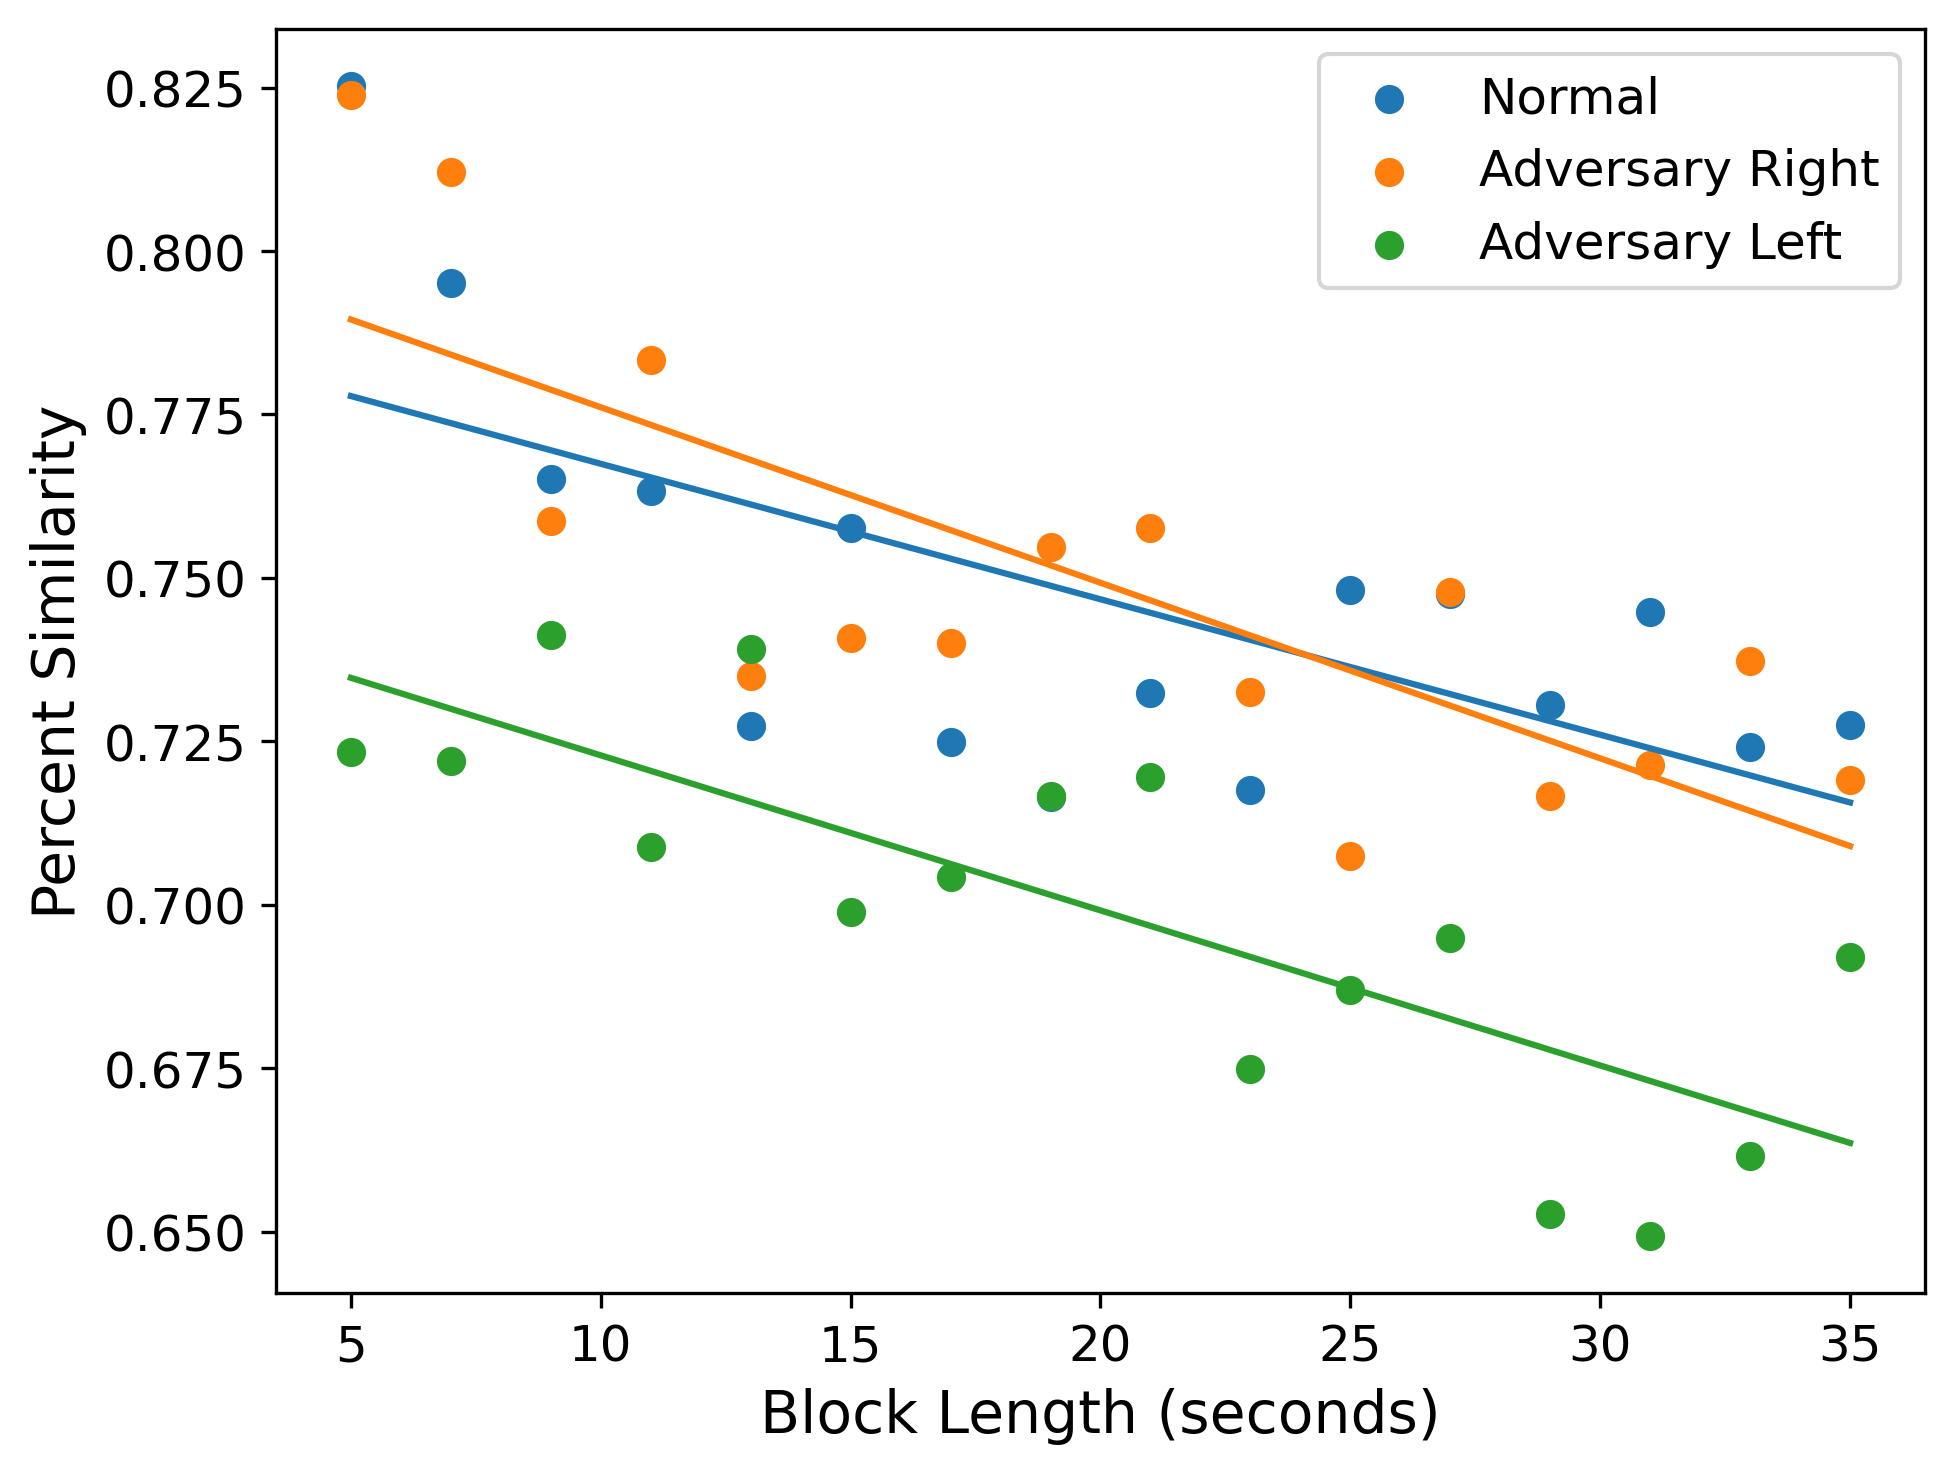
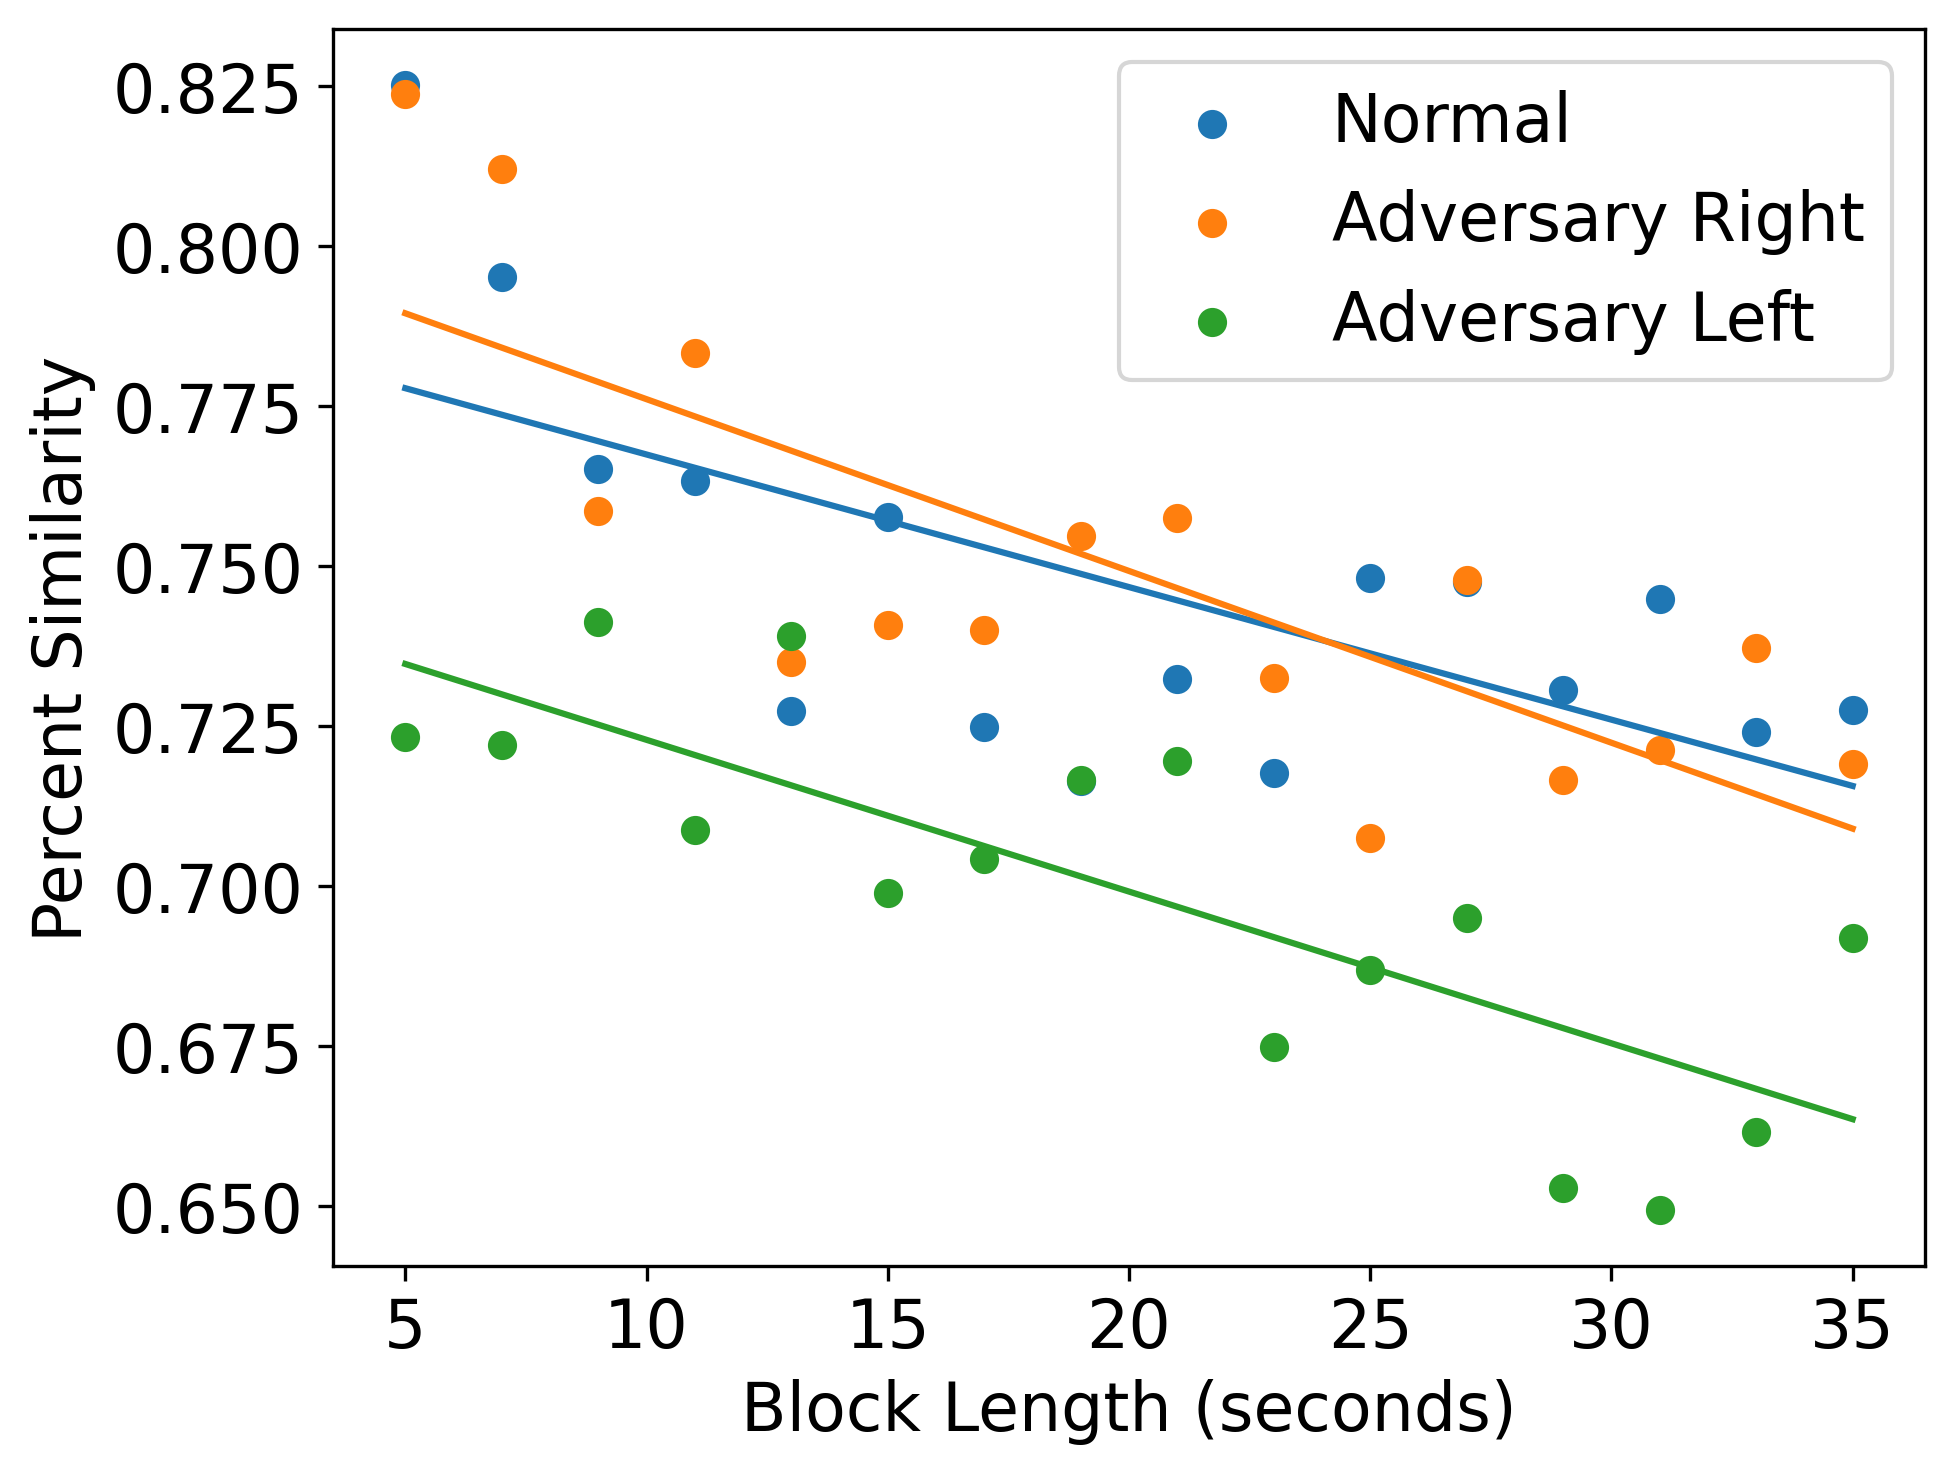
Made the text larger on the graphs we use

diff --git a/encode.py b/encode.py
@@ -56,7 +56,7 @@ def block_encoding(filename, start_time, block_size, num_blocks, time_gap=0, rev
     df = pd.read_csv(filename)
 
     blocks = ['' for _ in range(num_blocks)]
-    
+    """
     for _, entry in df.iterrows():
         t = entry.iloc[0]
         e = entry.iloc[1]
@@ -65,7 +65,7 @@ def block_encoding(filename, start_time, block_size, num_blocks, time_gap=0, rev
 
         if block >= 0 and block < num_blocks and (t - start_time - block*(block_size+time_gap)) <= block_size:
             blocks[block] += (encode_event(t, e, reverse, time_resolution=tres, bits_to_drop=bits_to_drop))
-    
+    """
     if zone_name is not None:
         for index in range(len(blocks)):
             blocks[index] += encode_zone(zone_name, start_time + index*block_size, block_size, zone_multiplier=zone_multiplier)
@@ -180,15 +180,15 @@ def best_fit(X, Y):
 def graphs_old():
 
     SMALL_SIZE = 12
-    MEDIUM_SIZE = 14
-    BIGGER_SIZE = 16
+    MEDIUM_SIZE = 16
+    BIGGER_SIZE = 18
 
-    plt.rc('font', size=SMALL_SIZE)          # controls default text sizes
-    plt.rc('axes', titlesize=SMALL_SIZE)     # fontsize of the axes title
+    plt.rc('font', size=MEDIUM_SIZE)          # controls default text sizes
+    plt.rc('axes', titlesize=BIGGER_SIZE)     # fontsize of the axes title
     plt.rc('axes', labelsize=MEDIUM_SIZE)    # fontsize of the x and y labels
-    plt.rc('xtick', labelsize=SMALL_SIZE)    # fontsize of the tick labels
-    plt.rc('ytick', labelsize=SMALL_SIZE)    # fontsize of the tick labels
-    plt.rc('legend', fontsize=SMALL_SIZE)    # legend fontsize
+    plt.rc('xtick', labelsize=MEDIUM_SIZE)    # fontsize of the tick labels
+    plt.rc('ytick', labelsize=MEDIUM_SIZE)    # fontsize of the tick labels
+    plt.rc('legend', fontsize=MEDIUM_SIZE)    # legend fontsize
     plt.rc('figure', titlesize=BIGGER_SIZE)  # fontsize of the figure title
 
     rear_left = "data_adversary_rear_left"
@@ -283,7 +283,7 @@ def graphs_old():
         ax[i].plot(X_right, data_right, color='#f0e442')
         ax[i].plot(X_left, data_left, color='#0072b2')
 
-        ax[i].legend(['Normal', 'Adversary Right','Adversary Left'], prop={'size': 12})
+        ax[i].legend(['Normal', 'Adversary Right','Adversary Left'], prop={'size': 14})
 
         """
         #plot the lines of best fit
@@ -313,15 +313,15 @@ def graph_block_size():
 
     
     SMALL_SIZE = 12
-    MEDIUM_SIZE = 14
-    BIGGER_SIZE = 16
+    MEDIUM_SIZE = 16
+    BIGGER_SIZE = 18
 
-    plt.rc('font', size=SMALL_SIZE)          # controls default text sizes
-    plt.rc('axes', titlesize=SMALL_SIZE)     # fontsize of the axes title
+    plt.rc('font', size=MEDIUM_SIZE)          # controls default text sizes
+    plt.rc('axes', titlesize=BIGGER_SIZE)     # fontsize of the axes title
     plt.rc('axes', labelsize=MEDIUM_SIZE)    # fontsize of the x and y labels
-    plt.rc('xtick', labelsize=SMALL_SIZE)    # fontsize of the tick labels
-    plt.rc('ytick', labelsize=SMALL_SIZE)    # fontsize of the tick labels
-    plt.rc('legend', fontsize=SMALL_SIZE)    # legend fontsize
+    plt.rc('xtick', labelsize=MEDIUM_SIZE)    # fontsize of the tick labels
+    plt.rc('ytick', labelsize=MEDIUM_SIZE)    # fontsize of the tick labels
+    plt.rc('legend', fontsize=MEDIUM_SIZE)    # legend fontsize
     plt.rc('figure', titlesize=BIGGER_SIZE)  # fontsize of the figure title
 
     fig1, ((bx)) = plt.subplots(1, 1, layout="constrained")
@@ -423,7 +423,7 @@ def graph_block_size():
     bx.set_xlabel("Block Length (seconds)")
     bx.set_ylabel("Percent Similarity")
 
-    fig1.savefig('figures/Block-Length-Events-Scatter-Averaged.png', dpi = 300, bbox_inches='tight')
+    fig1.savefig('figures/Block-Length-Zones-Scatter-Averaged.png', dpi = 300, bbox_inches='tight')
     plt.show()
     
 def graphs_normal_time_resolution_block_size():
@@ -491,15 +491,15 @@ def graphs_zone_parameters():
 
     
     SMALL_SIZE = 12
-    MEDIUM_SIZE = 14
-    BIGGER_SIZE = 16
+    MEDIUM_SIZE = 16
+    BIGGER_SIZE = 18
 
-    plt.rc('font', size=SMALL_SIZE)          # controls default text sizes
-    plt.rc('axes', titlesize=SMALL_SIZE)     # fontsize of the axes title
+    plt.rc('font', size=MEDIUM_SIZE)          # controls default text sizes
+    plt.rc('axes', titlesize=BIGGER_SIZE)     # fontsize of the axes title
     plt.rc('axes', labelsize=MEDIUM_SIZE)    # fontsize of the x and y labels
-    plt.rc('xtick', labelsize=SMALL_SIZE)    # fontsize of the tick labels
-    plt.rc('ytick', labelsize=SMALL_SIZE)    # fontsize of the tick labels
-    plt.rc('legend', fontsize=SMALL_SIZE)    # legend fontsize
+    plt.rc('xtick', labelsize=MEDIUM_SIZE)    # fontsize of the tick labels
+    plt.rc('ytick', labelsize=MEDIUM_SIZE)    # fontsize of the tick labels
+    plt.rc('legend', fontsize=MEDIUM_SIZE)    # legend fontsize
     plt.rc('figure', titlesize=BIGGER_SIZE)  # fontsize of the figure title
 
     fig1, ((bx)) = plt.subplots(1, 1, layout="constrained")
@@ -606,8 +606,8 @@ def graphs_zone_parameters():
     fig1.savefig('figures/Zone-Multiplier-16b.png', dpi = 300, bbox_inches='tight')
 
 if __name__ == "__main__":
-    #graphs_zone_parameters()
-    graphs_old()
+    graphs_zone_parameters()
+    #graphs_old()
     #graph_block_size()
     #graphs_normal_time_resolution_block_size()
     #front_normal = "data-files/data_front_ultrawide.csv"
